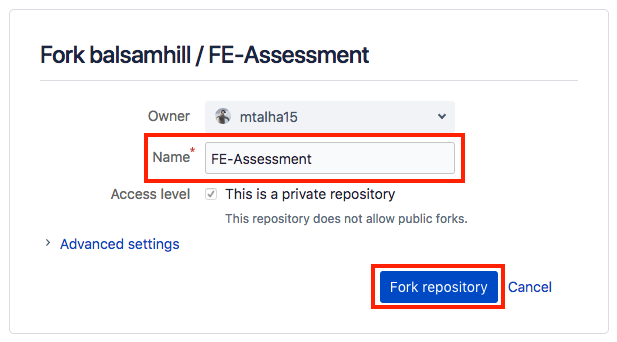
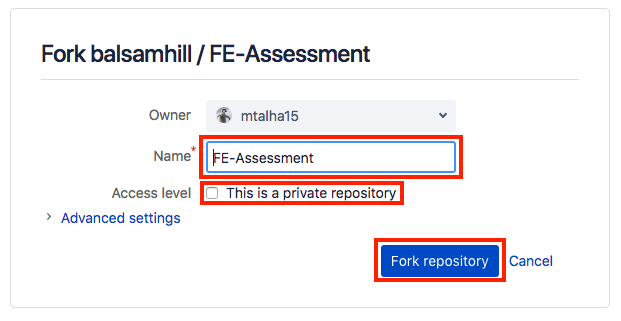
[create-assessment] Updating instructions and images for public repo

diff --git a/README.md b/README.md
@@ -1,30 +1,28 @@
 # Front-end Development Assessment - Animal Facts
 
 ## Instructions
-1. Fork this repo as a private repo.
+1. Fork this repo as a public repo.
     - ![Fork 1](instruction-images/1-fork-1.png)
     - ![Fork 2](instruction-images/2-fork-2.png)
     - ![Fork 3](instruction-images/3-fork-3.png)
-1. In your new private repo, navigate through to Settings > User and group access. Under the Users section, add `dev@balsambrands.com` as a user to give us access to review the finished code.
-    - ![Add User](instruction-images/4-add_user.png)
-1. Pull your private repo locally.
+1. Pull your repo locally.
 1. Branch into a feature branch.
 1. Develop according to the Acceptance Criteria below on the feature branch. Time limit is 1 hour.
-1. Design specs are in `design-specs/`.
-1. Start based off the code in `code/index.html`.
-1. You probably will want to use a local web server to develop with. The [Chrome Web Server](https://chrome.google.com/webstore/detail/web-server-for-chrome/ofhbbkphhbklhfoeikjpcbhemlocgigb?hl=en) is an easy Chrome server extension to use. Point the root to `code/`.
+1. Design specs are in [design-specs/](design-specs/).
+1. Start based off the code in [code/index.html](code/index.html).
+1. You probably will want to use a local web server to develop with. The [Chrome Web Server](https://chrome.google.com/webstore/detail/web-server-for-chrome/ofhbbkphhbklhfoeikjpcbhemlocgigb?hl=en) is an easy Chrome server extension to use. Point the root to [code/](code/).
 1. For writing JS, please use a separate JS file.
 1. For writing CSS, please use a separate CSS file.
-1. The `code/api/facts/` path contains a mock facts data JSON API. Endpoints to get data are `api/facts/cat.json`, `api/facts/dog.json`, etc.
+1. The [code/api/facts/](code/api/facts/) path contains a mock facts data JSON API. Endpoints to get data are `api/facts/cat.json`, `api/facts/dog.json`, etc.
 1. When managing your time, please focus first on the JS functionality, then on the CSS and HTML.
 1. When ready to submit, push the feature branch to your private repo.
 1. Open a PR from the feature branch to the main branch.
-    - ![Create PR 1](instruction-images/5-create_pr-1.png)
-    - ![Create PR 2](instruction-images/6-create_pr-2.png)
-    - ![Create PR 3](instruction-images/7-create_pr-3.png)
+    - ![Create PR 1](instruction-images/4-create_pr-1.png)
+    - ![Create PR 2](instruction-images/5-create_pr-2.png)
+    - ![Create PR 3](instruction-images/6-create_pr-3.png)
 
 ## Acceptance Criteria
-- Create a desktop and mobile experience based off of the specs in `design-specs/`.
+- Create one experience which is responsive for desktop and mobile based off of the specs in `design-specs/`.
 - Assume mobile devices are 600px and smaller.
 - When clicking the animal buttons a popup should open with the right animal's facts data. Data within this should be requested through the mock facts API, `/api/facts/...`.
 - When clicking the close button in the popup, the popup should close.
